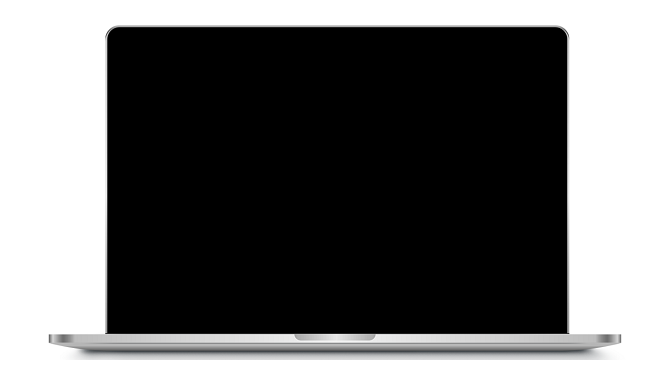
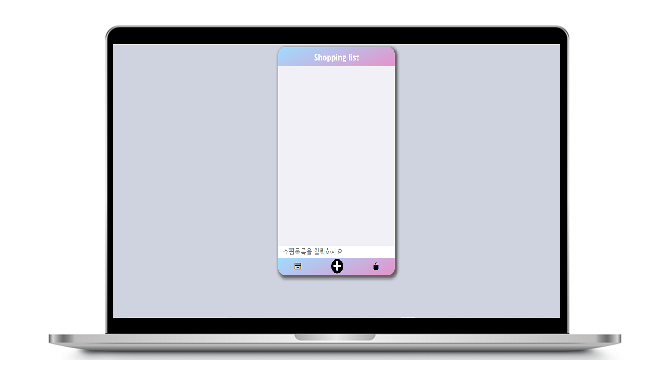
insert project2 (shopping list)

diff --git a/index.html b/index.html
@@ -86,10 +86,10 @@
                         <span>HTML, CSS, Javascript</span>
                     </div>
                 </a>
-                <a href="#" class="project" target="blank">
+                <a href="https://hyebinjo.github.io/shopping-list/" class="project" target="blank">
                     <img src="imgs/projects/project2.png" alt="project image" class="project__img">
                     <div class="project__description">
-                        <h3 class="project__title">to-do list</h3>
+                        <h3 class="project__title">Shopping list</h3>
                         <span>HTML, CSS, Javascript</span>
                     </div>
                 </a>
